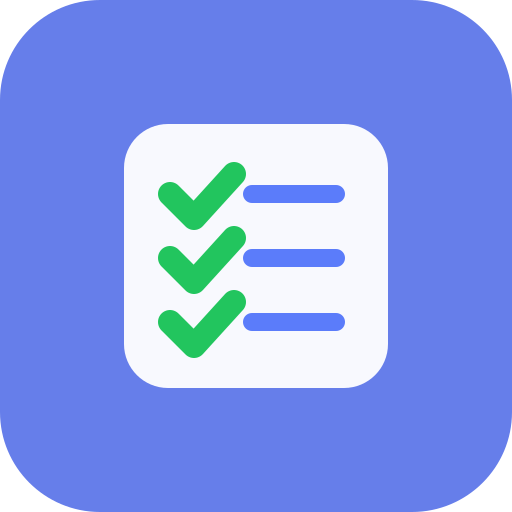
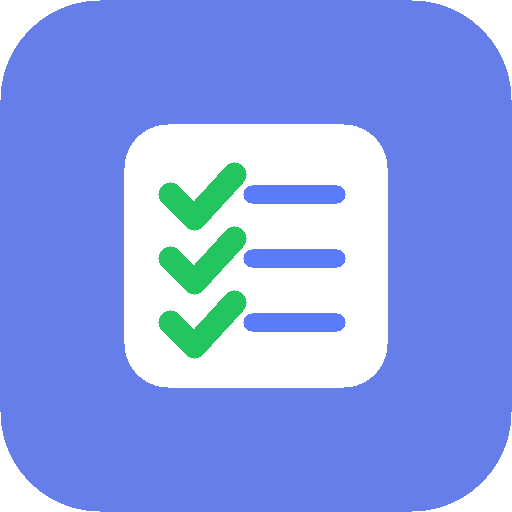
fix: ファビコンとアプリアイコンを新デザインに更新
チェックリストアプリのアイコンデザイン (icon.svg) からPNG/ICOを再生成。
- favicon.ico (16x16 + 32x32)
- favicon-16x16.png / favicon-32x32.png
- icon-192x192.png / icon-512x512.png
- icon-maskable-512x512.png / apple-touch-icon.png

app/+html.tsxのfaviconリンク順を更新:
SVG → ICO → PNG の優先順位でモダンブラウザはSVGを使用するよう設定。

public/vite.svg (旧Viteロゴ) を削除。

https://claude.ai/code/session_01AFksczLtmCkDv1mDrsAEEk

diff --git a/app/+html.tsx b/app/+html.tsx
@@ -11,9 +11,10 @@ export default function Root({ children }: PropsWithChildren) {
         <title>チェックリスト</title>
         <meta name="description" content="持ち物を確認するためのチェックリストアプリケーション" />
         <meta name="theme-color" content="#667eea" />
-        <link rel="icon" href="./favicon.ico" />
-        <link rel="icon" type="image/png" sizes="16x16" href="./favicon-16x16.png" />
+        <link rel="icon" type="image/svg+xml" href="./icon.svg" />
+        <link rel="icon" type="image/x-icon" href="./favicon.ico" />
         <link rel="icon" type="image/png" sizes="32x32" href="./favicon-32x32.png" />
+        <link rel="icon" type="image/png" sizes="16x16" href="./favicon-16x16.png" />
         <link rel="apple-touch-icon" href="./apple-touch-icon.png" />
         <link rel="manifest" href="./manifest.webmanifest" />
         <ScrollViewStyleReset />
